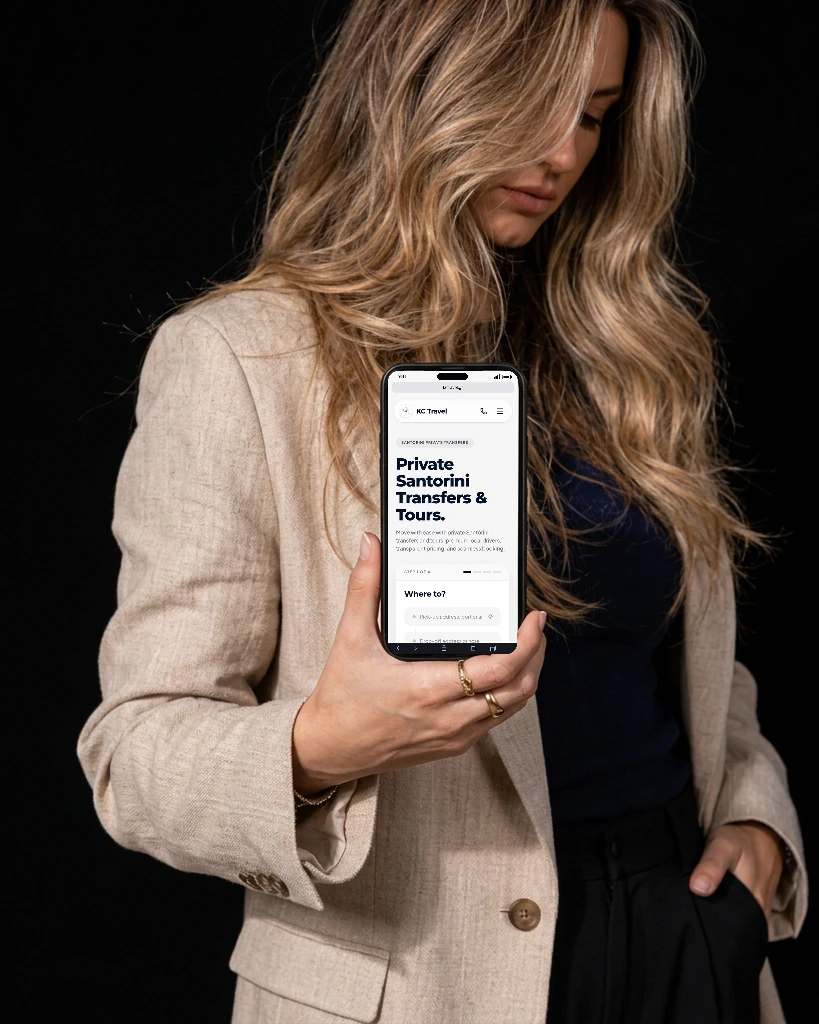
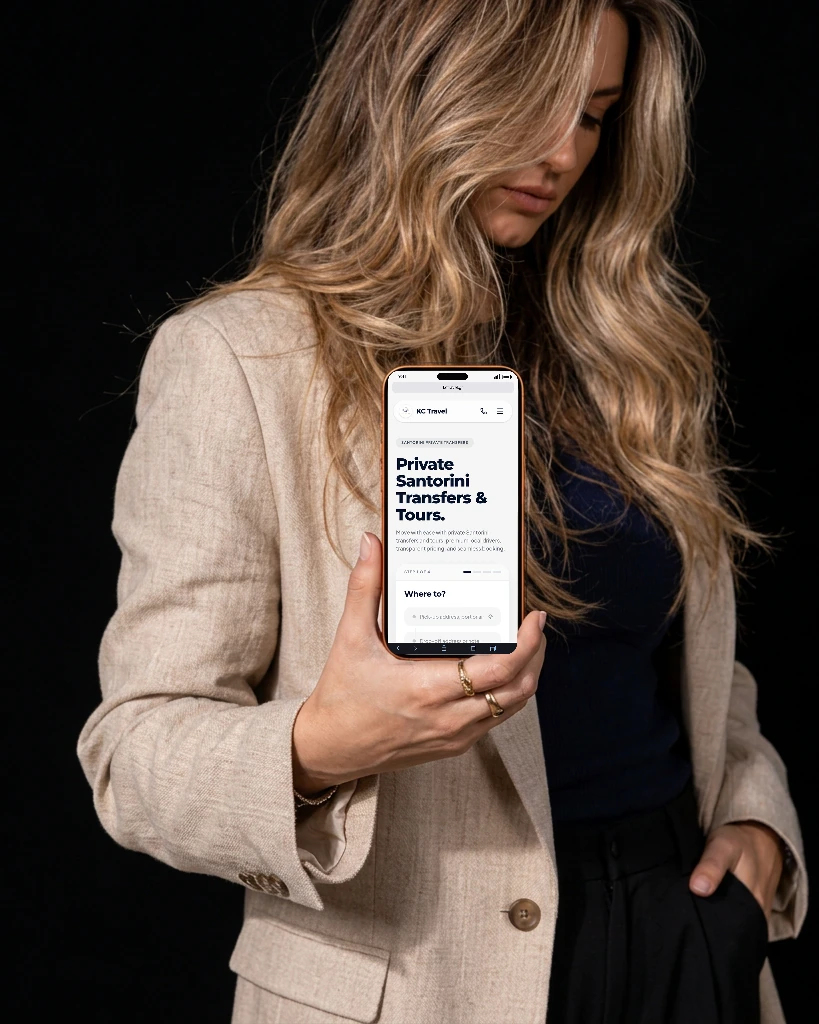
Use iPhone 17 Pro Max in all four portfolio portraits while preserving actual website screens

Changed region(s): [[0.4579, 0.3438, 0.641, 0.6562]]

diff --git a/scripts/build_portfolio_photos.py b/scripts/build_portfolio_photos.py
@@ -7,7 +7,7 @@ The finished website uses static WebP files, not this Python script.
 import argparse
 from pathlib import Path
 
-from PIL import Image, ImageDraw, ImageFont
+from PIL import Image, ImageDraw, ImageFilter, ImageFont
 
 ROOT = Path(__file__).resolve().parents[1]
 IMAGES = ROOT / "assets/studio/images"
@@ -21,6 +21,31 @@ PORTRAITS = (
     ("akri", "akriprojects.gr", "attached_assets/generated_images/pose-akri.png",
      ((285, 218), (400, 218), (400, 459), (285, 459)), (80, 0, 899, 1024), "project-akri.webp"),
 )
+
+# Only the handset is taken from the edited photo. The original portrait remains
+# pixel-identical outside this small region; actual website captures go on top.
+PHONE_EDITS = {
+    "highhope": (
+        "attached_assets/generated_images/iphone17pro-max-highhope.png",
+        ((253, 107), (507, 143), (451, 705), (197, 670)),
+        ((258, 144), (575, 184), (519, 831), (193, 794)),
+    ),
+    "gerakos": (
+        "attached_assets/generated_images/iphone17pro-max-gerakos.png",
+        ((242, 145), (460, 168), (410, 655), (196, 636)),
+        ((227, 130), (476, 155), (424, 673), (180, 650)),
+    ),
+    "kc-travel": (
+        "attached_assets/generated_images/iphone17pro-max-kc-travel.png",
+        ((468, 371), (598, 371), (597, 654), (468, 654)),
+        ((459, 363), (606, 363), (605, 662), (459, 662)),
+    ),
+    "akri": (
+        "attached_assets/generated_images/iphone17pro-max-akri.png",
+        ((285, 218), (400, 218), (400, 459), (285, 459)),
+        ((277, 210), (407, 210), (407, 467), (277, 467)),
+    ),
+}
 
 
 def solve(rows, values):
@@ -40,13 +65,28 @@ def solve(rows, values):
     return tuple(row[-1] for row in matrix)
 
 
-def perspective(quad, width, height):
+def perspective(quad, width, height, source_quad=None):
     rows, values = [], []
-    for (x, y), (u, v) in zip(quad, ((0, 0), (width, 0), (width, height), (0, height))):
+    source_quad = source_quad or ((0, 0), (width, 0), (width, height), (0, height))
+    for (x, y), (u, v) in zip(quad, source_quad):
         rows.extend(((x, y, 1, 0, 0, 0, -u*x, -u*y),
                      (0, 0, 0, x, y, 1, -v*x, -v*y)))
         values.extend((u, v))
     return solve(rows, values)
+
+
+def replace_handset(photo, slug, quad):
+    source, source_quad, outline = PHONE_EDITS[slug]
+    edited = Image.open(ROOT / source).convert("RGBA")
+    aligned = edited.transform(
+        photo.size, Image.Transform.PERSPECTIVE,
+        perspective(quad, *edited.size, source_quad=source_quad),
+        Image.Resampling.BICUBIC,
+    )
+    mask = Image.new("L", photo.size)
+    ImageDraw.Draw(mask).polygon(outline, fill=255)
+    mask = mask.filter(ImageFilter.GaussianBlur(0.75))
+    return Image.composite(aligned, photo, mask)
 
 
 def phone_screen(capture, domain):
@@ -95,6 +135,7 @@ def main():
                 desktop.resize((1440, 1000), Image.Resampling.LANCZOS).save(IMAGES / f"{slug}-desktop.webp", quality=90, method=6)
         page = Image.open(mobile)
         photo = Image.open(ROOT / source).convert("RGBA")
+        photo = replace_handset(photo, slug, quad)
         screen = phone_screen(page, domain)
         layer = screen.transform(photo.size, Image.Transform.PERSPECTIVE,
                                  perspective(quad, *screen.size), Image.Resampling.BICUBIC)
